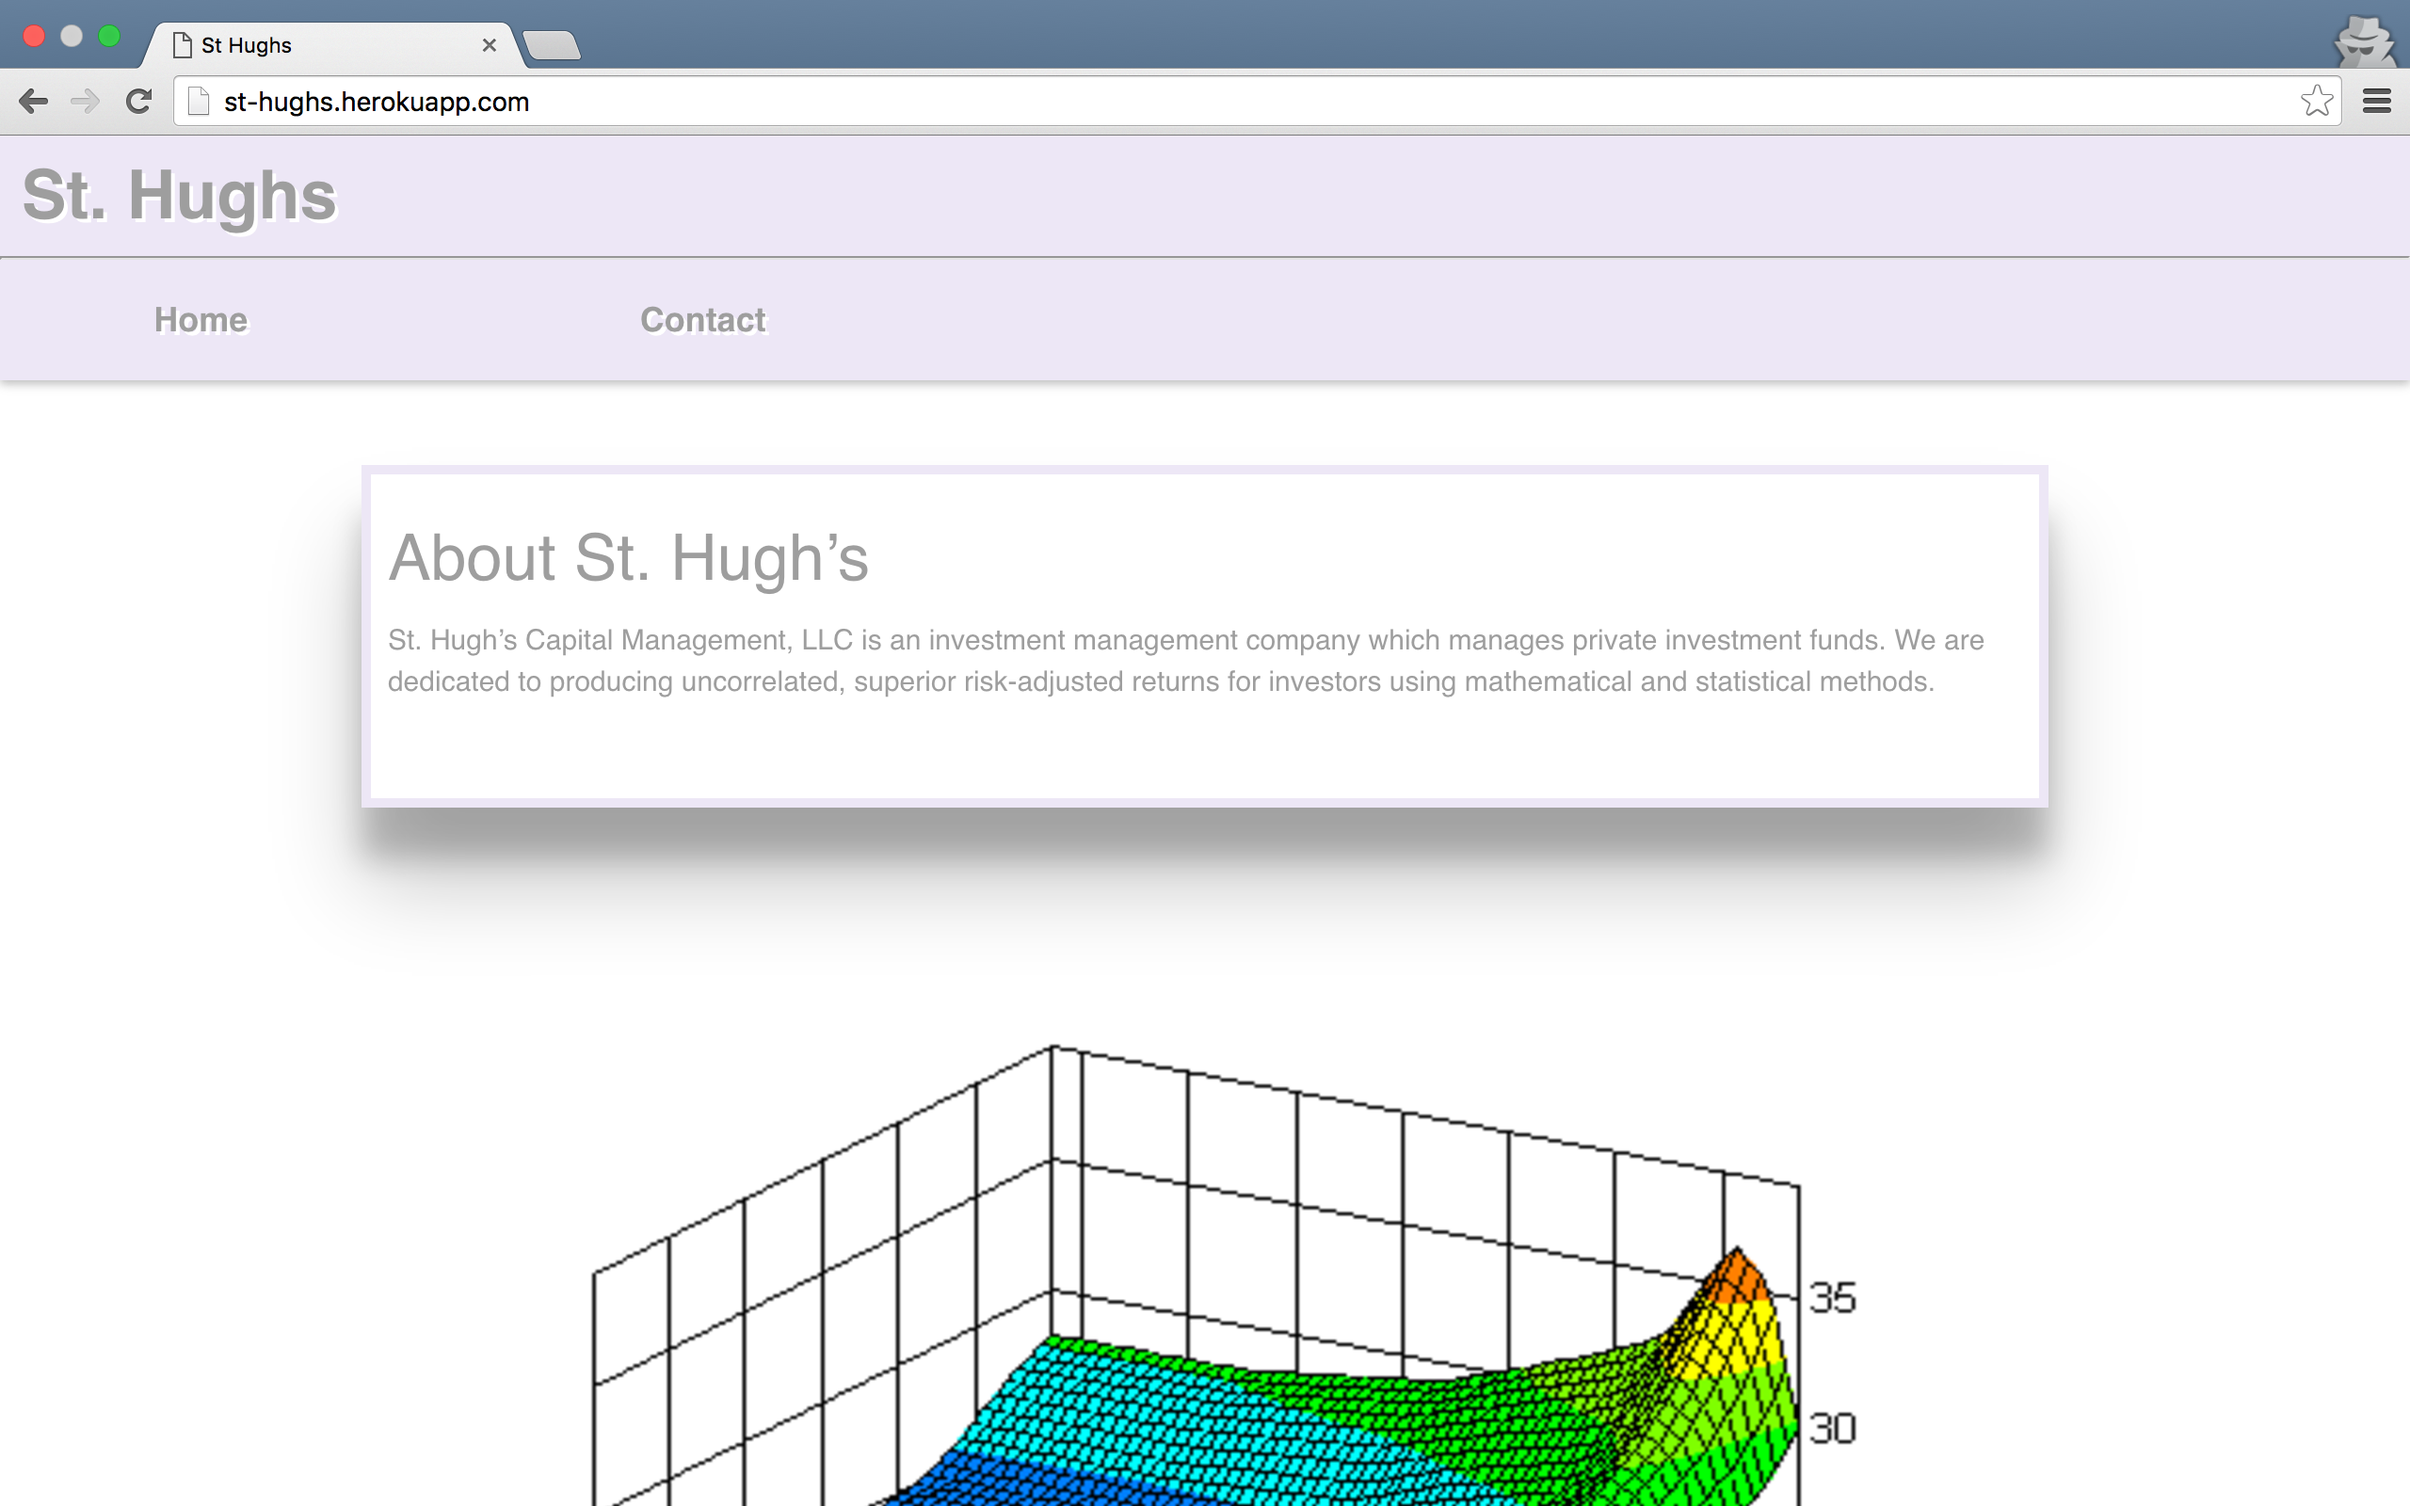
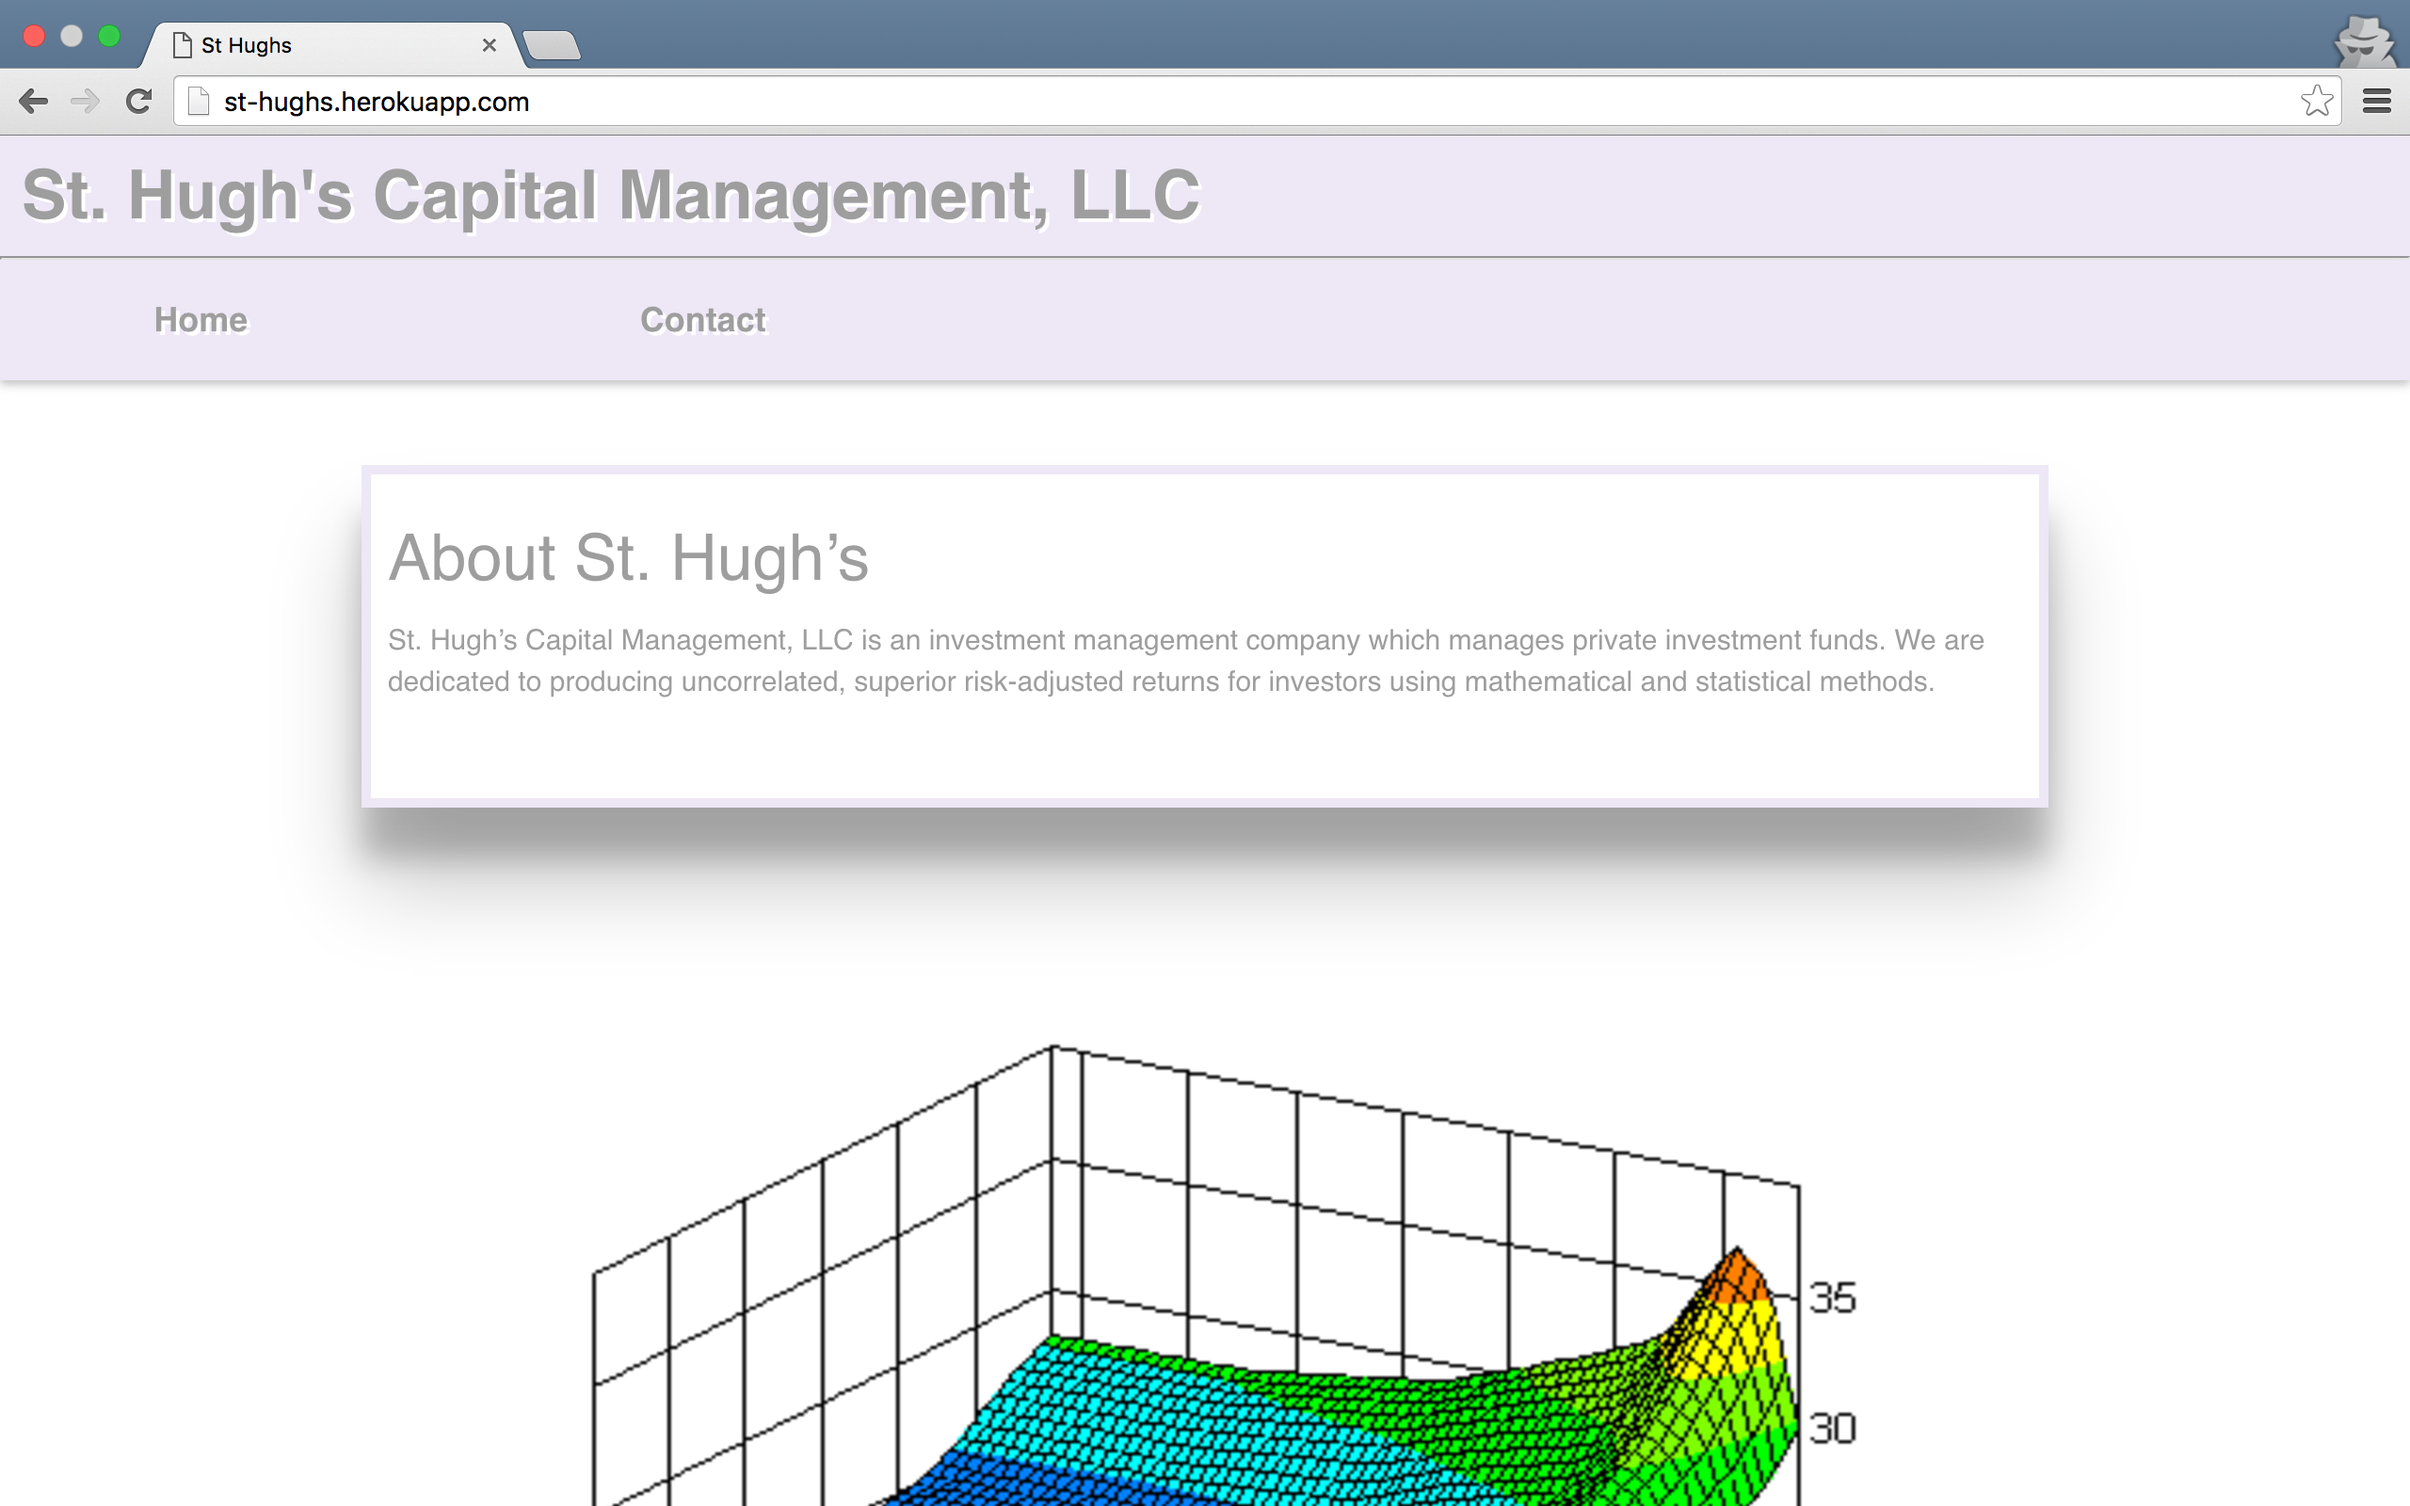
updating

Changed region(s): [[0.125, 0.0938, 0.5, 0.1562]]

diff --git a/public/partials/projects.html b/public/partials/projects.html
@@ -51,7 +51,7 @@
 				<img class='activator' src="images/sthughs.jpg">
 			</div>
 			<div class='card-content'>
-				<span class='card-title activator red-text darken-4'>St. Hughs, LLC</span>
+				<span class='card-title activator red-text darken-4'>St. Hughs, Capital Management, LLC</span>
 				<p><a href="http://st-hughs.herokuapp.com/">Project link</a></p>
 				<p><a href="https://github.com/johnclarkthiel/st_hughs">Github link</a></p>
 			</div>
